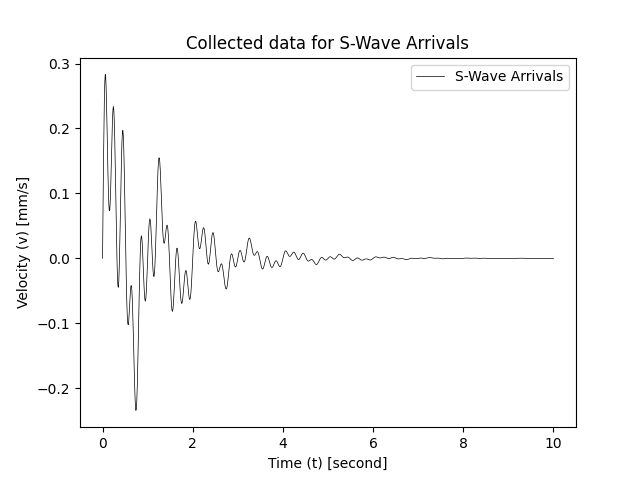
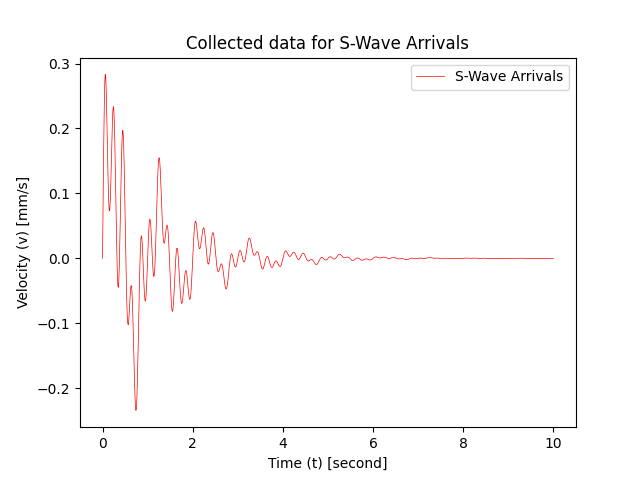
small changes

Changed region(s): [[0.1562, 0.1562, 0.625, 0.8438], [0.7188, 0.5312, 0.75, 0.5625], [0.6562, 0.5312, 0.6875, 0.5625]]

diff --git a/examples/driver_seismic.py b/examples/driver_seismic.py
@@ -11,7 +11,7 @@ def main():
     v = wave_data[:,1]
     #X axis will be (t)ime (seconds), Y axis will be (v)elocity (mm/s)
 
-    plt.plot(t, v, 'k-', label = 'S-Wave Arrivals', linewidth = 0.5)
+    plt.plot(t, v, 'r-', label = 'S-Wave Arrivals', linewidth = 0.5)
     plt.ylabel('Velocity (v) [mm/s]')
     plt.xlabel('Time (t) [second]')
     plt.title('Collected data for S-Wave Arrivals')
